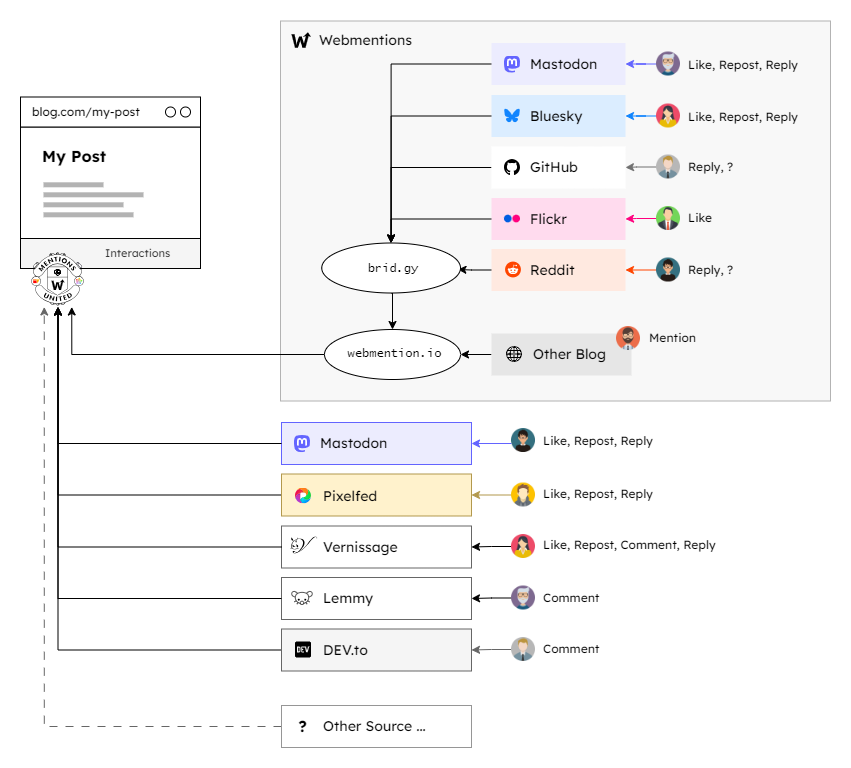
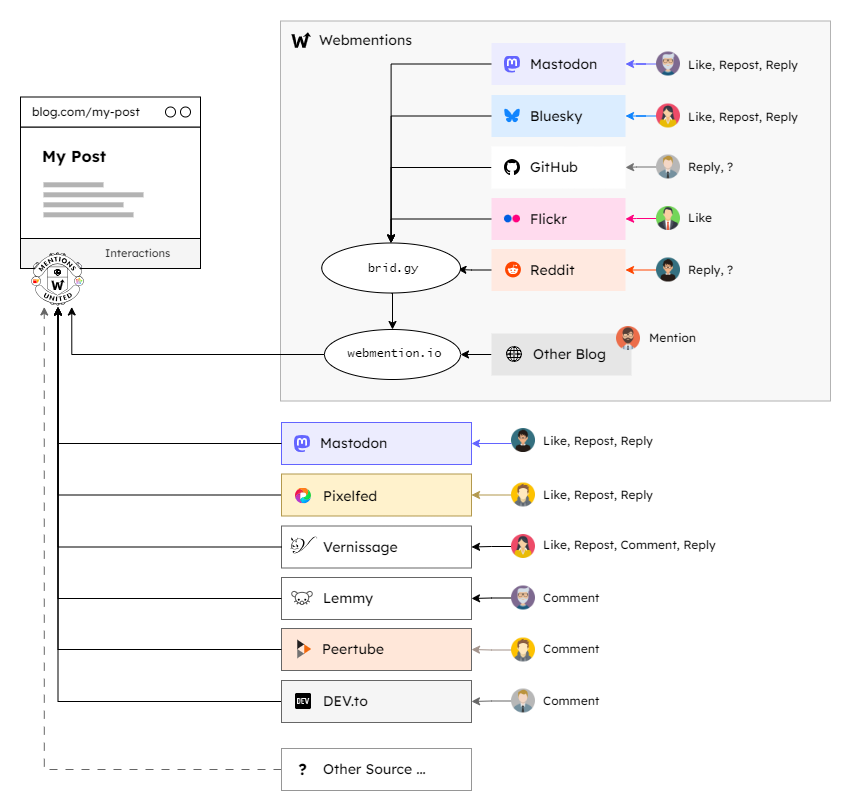
New Peertube Provider

diff --git a/mentions-united-provider_peertube.js b/mentions-united-provider_peertube.js
@@ -1,0 +1,148 @@
+/**
+ * Mentions United Provider plugin class for retreiving interactions from Peertube
+ * 
+ * @author Kristof Zerbe
+ * @version 1.0.0
+ * @see {@link https://github.com/kristofzerbe/MentionsUnited|GitHub} 
+ * 
+ * API Documentation: https://docs.joinpeertube.org/api-rest-reference.html
+ * 
+ * Options:
+ *  - {String} syndicationUrl     = Full URL of the Peertube post
+ *  - {String} [syndicationTitle] = Title of the Peertube post, if multiple syndications of original post
+ * 
+ * Supported origins:
+ *  - peertube
+ * 
+ * Supported type-verbs:
+ *  - comment
+ * 
+ * Remarks:
+ *  - 
+*/
+class MentionsUnitedProvider_Peertube extends MentionsUnited.Provider {
+  key = ""; // will be set via syndicationUrl in constructor (must be unique across all provider plugins for registration)
+  
+  options = {
+    syndicationUrl: "",
+    syndicationTitle: ""
+  }
+
+  constructor(options) {
+    super();
+    this.options = {...this.options, ...options};
+
+    //check mandatory options
+    if (this.options.syndicationUrl.length === 0) { throw "'syndicationUrl' is missing"; }
+
+    //get needed information from syndicationUrl
+    let peertubeUrl = new URL(this.options.syndicationUrl);
+    this.key = peertubeUrl.hostname;
+    this.sourceId = peertubeUrl.pathname.split("/").pop();
+    
+    //set API endpoint
+    this.options.apiBaseUrl = peertubeUrl.origin;
+  }
+
+  /**
+   * Retrieve data from Peertube
+   * @returns {Array.<MentionsUnited.Interaction>}
+   */
+  async retrieve(args) {
+    const msg = `${this.constructor.name}: Retreiving interactions for '${this.options.syndicationUrl}'`;
+    args.fStart(msg);
+    
+    const apiResponse = await fetch(this.commentApiUrl());
+    const apiData = await apiResponse.json();
+
+    //Replace AUTHOR block with data from account API in all interactions
+    let authorApiUrls = new Set();
+    apiData.items.forEach((item) => {
+      item.author.name = item.author.url.split("/").pop();
+      authorApiUrls.add(this.accountApiUrl(item.author.name));
+    });
+    let authors = await this.#fetchAuthors([...authorApiUrls]);
+    apiData.items.forEach((item) => {
+      item.author = authors.find(author => author.name === item.author.name);
+    });
+
+    let interactions = this.#processJsonData(apiData.items);
+
+    args.fCount();
+    
+    args.fEnd(msg);
+    return interactions;
+
+  }
+
+  //////////////////////////////////////////////////////////////////////////////////////////
+  
+  commentApiUrl() { return `${this.options.apiBaseUrl}/feeds/video-comments.json?videoId=${this.sourceId}` };
+  accountApiUrl(name) { return `${this.options.apiBaseUrl}/api/v1/accounts/${name}` };
+
+  /**
+   * Fetches authors from Peertube API
+   * @param {String} url - API URL for authors
+   * @returns {Object} - JSON object with author data
+   */
+  async #fetchAuthors(urls) {
+    try {
+      const requests = urls.map(url => fetch(url));
+      const responses = await Promise.all(requests);
+  
+      const data = await Promise.all(responses.map(response => {
+        return response.json();
+      }));
+
+      return data;
+    } catch (e) { console.error(e); }
+  }
+
+
+  /**
+   * Processes retrieved JSON data into flat array of Interaction 
+   * @param {Array.<Object>} entries 
+   * @returns {Array.<MentionsUnited.Interaction>}
+   */
+  #processJsonData(entries) {
+    return entries.map((item) => {
+      return this.#convertToInteraction(item);
+    });
+  }
+  
+  /**
+   * Converts specific data object into Interaction
+   * @param {Object} entry 
+   * @returns {MentionsUnited.Interaction}
+   */
+  #convertToInteraction(entry) {
+    let r = new MentionsUnited.Interaction();
+
+    r.syndication.url = this.options.syndicationUrl;
+    r.syndication.title = this.options.syndicationTitle;
+
+    r.type = "comment";
+    r.received = entry.date_modified;
+
+    r.source.provider = this.key;
+    r.source.origin = "peertube";
+    r.source.sender = this.key;
+    r.source.url = entry.url;
+    r.source.id = "";
+    r.source.title = "";
+
+    r.author.name = entry.author.displayName;
+    r.author.avatar = entry.author.avatars[0].fileUrl;
+    r.author.profile = entry.author.url;
+
+    r.content.html = entry.content_html;
+    
+    return r;
+  }
+
+}
+/**
+ * Changelog
+ * 
+ * 1.0.0 - Initial
+ */

diff --git a/mentions-united-provider_vernissage.js b/mentions-united-provider_vernissage.js
@@ -34,7 +34,6 @@ class MentionsUnitedProvider_Vernissage extends MentionsUnited.Provider {
   constructor(options) {
     super();
     this.options = {...this.options, ...options};
-    this.helper = new MentionsUnited.Helper(); // if needed
 
     //check mandatory options
     if (this.options.syndicationUrl.length === 0) { throw "'syndicationUrl' is missing"; }

diff --git a/mentions-united-provider_lemmy.js b/mentions-united-provider_lemmy.js
@@ -4,7 +4,6 @@
  * @author Kristof Zerbe
  * @version 2.2.0
  * @see {@link https://github.com/kristofzerbe/MentionsUnited|GitHub} 
- * It would be wonderful of you open up a PR here to let me add your plugin to the project
  * 
  * API Documentation: https://github.com/MV-GH/lemmy_openapi_spec
  *                    https://lemmy.readme.io/reference

diff --git a/README.md b/README.md
@@ -265,7 +265,7 @@ Pixelfed has a total of three API endpoints via which interactions have to be re
 | \[apiBaseUrl\]       | String | Base URL of API proxy, if existing |
 | \[apiTokenReadOnly\] | String | Token to access Pixelfed's API in Read-Only mode, if no proxy |
 
-For Pixelfed instances, you must specify an **authentication token** when accessing the **public API**, which you can create in the Pixelfed settings under ‘Applications’. Only one with read-only rights is required.
+For Pixelfed instances, you must specify an **authentication token** when accessing the **public API**, which you can create in the Pixelfed settings under 'Applications'. Only one with read-only rights is required.
 
 In the plugin options you can either enter the token **directly** (if you don't care that anyone can use it to read your public Pixelfed data) or you can enter the base URL of an **API proxy** through which the Pixelfed requests are passed.
 
@@ -381,6 +381,48 @@ Lemmy is organized by instances, where you have your account, and **communities*
 mentionsUnited.register(new MentionsUnitedProvider_Lemmy({
   syndicationUrl: "__LEMMY-URL__",
   syndicationCommunity: "__LEMMY-COMMUNITY__"
+}));
+```
+
+<p align="center"><img src="_attachments/divider.png" width="auto"></p>
+
+### Provider: Peertube
+
+*File: [mentions-united-provider_peertube.js](https://github.com/kristofzerbe/Mentions-United/blob/main/mentions-united-provider_peertube.js)*  
+*Author: [Kristof Zerbe](https://github.com/kristofzerbe)*  
+
+This plugin fetches comments from a [Peertube](https://joinpeertube.org) instance.
+
+![Architecture Peertube](_attachments/Provider-peertube.png)
+
+#### Specials
+
+The comment data (threads) are pulled from the open and freely available Feed API. Unfortunately, the AUTHOR part of the data currently only consists of the author's name and profile URL. Therefore, the complete author data, including avatars, is fetched addionally via the freely available Account REST-API. See also the [GitHub feature request](https://github.com/Chocobozzz/PeerTube/issues/6998) in the Peertube project.
+
+#### Options
+
+|                     | Type   | Description |
+| ------------------- | ------ | ----------- |
+| **syndicationUrl**  | String | Full URL of the Peertube post |
+| \[syndicationTitle\] | String | Title of the Peertube post, if multiple syndications of original post |
+
+#### Supported Origins
+
+- peertube
+
+#### Supported Type Verbs
+
+- comment
+
+#### Initialization
+
+```html
+<script src="/js/mentions-united-provider_peertube.js"></script>
+```
+
+```js
+mentionsUnited.register(new MentionsUnitedProvider_Peertube({
+  syndicationUrl: "__PEERTUBE-URL__"
 }));
 ```
 
